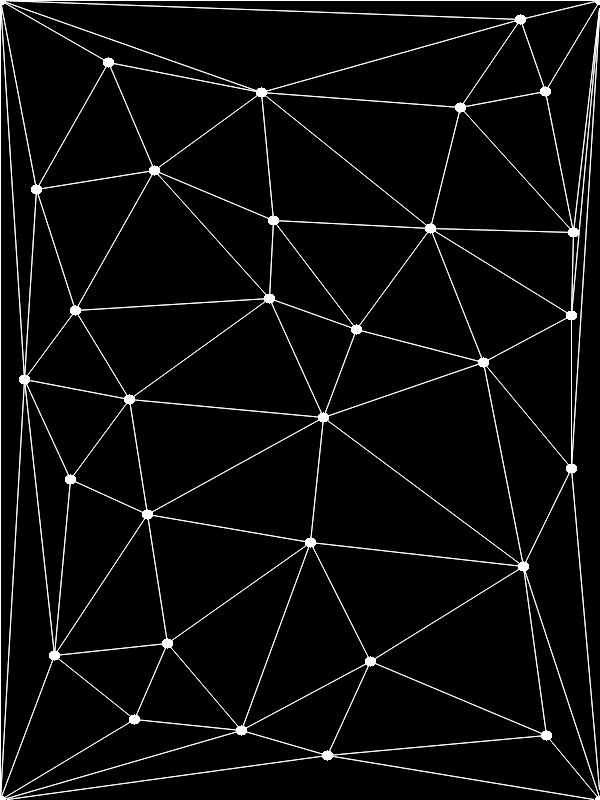
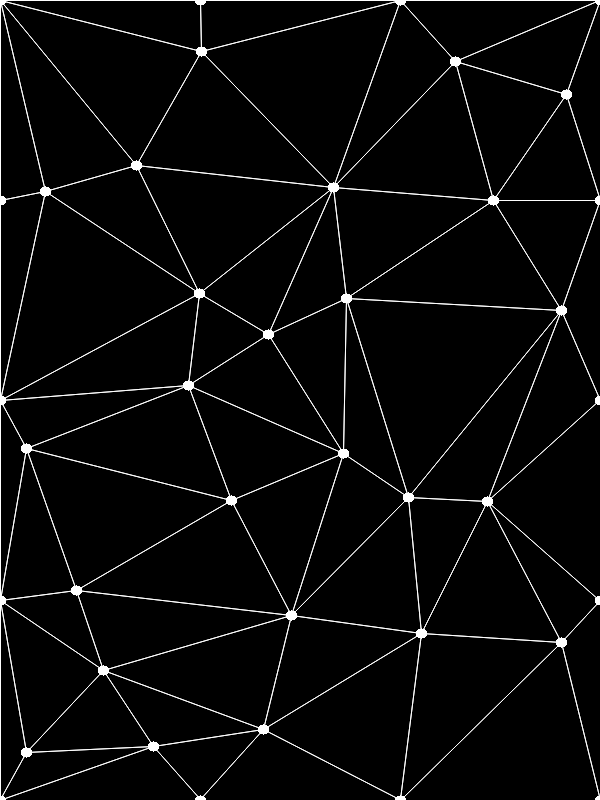
+ points on borders

diff --git a/triangle.py b/triangle.py
@@ -1,6 +1,8 @@
 # ---------------------------------------------------------- #
-# Delaunay triangulation
 #
+# PolygonPic
+#
+# Links:
 # https://docs.scipy.org/doc/scipy-0.14.0/reference/generated/scipy.spatial.Delaunay.html
 #
 # ---------------------------------------------------------- #
@@ -17,9 +19,12 @@ from scipy.spatial import Delaunay
 width = 600
 height = 800
 
+w_shift = width / 3   # !IMPORTANT
+h_shift = height / 4   # !IMPORTANT
+
 pygame.init()
 screen = pygame.display.set_mode((width, height), 0, 32)
-pygame.display.set_caption("_Polygon_Prototype_")
+pygame.display.set_caption("_polygonpic_prototype_")
 
 # ---------------------------------------------------------- #
 # Var
@@ -32,7 +37,7 @@ running = True
 print "Setup..."
 
 points_number = 70   # 70 !IMPORTANT
-dist_from_borders = 19   # !IMPORTANT
+dist_from_borders = 21   # !IMPORTANT
 
 X = np.random.randint(dist_from_borders, width - dist_from_borders, size=(points_number,))
 Y = np.random.randint(dist_from_borders, height - dist_from_borders, size=(points_number,))
@@ -40,7 +45,7 @@ Y = np.random.randint(dist_from_borders, height - dist_from_borders, size=(point
 point_cloud_list = zip(list(X), list(Y))
 point_cloud_list_new = point_cloud_list[:]
 
-distance_threshold = 70   # 70 !IMPORTANT
+distance_threshold = 77   # 70 !IMPORTANT
 
 # Combinations using for
 for p1 in point_cloud_list:
@@ -71,7 +76,7 @@ for c in combinations:
 point_cloud_list_new = list(set(point_cloud_list_new))
 """
 
-# Add corners
+# Add corners and borders | Manual | Need tuning
 # print point_cloud_list, point_cloud_list_new
 point_cloud_list.append((0, 0))
 point_cloud_list.append((0, height))
@@ -81,11 +86,35 @@ point_cloud_list_new.append((0, 0))
 point_cloud_list_new.append((0, height))
 point_cloud_list_new.append((width, 0))
 point_cloud_list_new.append((width, height))
+#
+point_cloud_list.append((0, h_shift))
+point_cloud_list.append((0, 2 * h_shift))
+point_cloud_list.append((0, 3 * h_shift))
+point_cloud_list_new.append((0, h_shift))
+point_cloud_list_new.append((0, 2 * h_shift))
+point_cloud_list_new.append((0, 3 * h_shift))
+#
+point_cloud_list.append((width, h_shift))
+point_cloud_list.append((width, 2 * h_shift))
+point_cloud_list.append((width, 3 * h_shift))
+point_cloud_list_new.append((width, h_shift))
+point_cloud_list_new.append((width, 2 * h_shift))
+point_cloud_list_new.append((width, 3 * h_shift))
+#
+point_cloud_list.append((w_shift, 0))
+point_cloud_list.append((w_shift * 2, 0))
+point_cloud_list_new.append((w_shift, 0))
+point_cloud_list_new.append((w_shift * 2, 0))
+#
+point_cloud_list.append((w_shift, height))
+point_cloud_list.append((w_shift * 2, height))
+point_cloud_list_new.append((w_shift, height))
+point_cloud_list_new.append((w_shift * 2, height))
 
 point_cloud = np.array(point_cloud_list)
 point_cloud_new = np.array(point_cloud_list_new)
 
-# Use not all pionts | !IMPORTANT
+# Use not all points | !IMPORTANT
 point_cloud = point_cloud_new
 point_cloud_list = point_cloud_list_new
 
@@ -155,4 +184,3 @@ while running:
 print "All stopped..."
 
 # -------------------------# 
-

diff --git a/README.md b/README.md
@@ -2,4 +2,35 @@
 
 Polygonal images generator
 
-Delaunay triangulation
+Generates random polygonal images using Delaunay triangulation.
+
+Dependencies:
+
+- Python;
+
+- pygame;
+
+- scipy;
+
+- numpy;
+
+Example of work (skeleton):
+
+https://github.com/spaceuniverse/PolygonPic/blob/master/media/screen.png
+
+
+-----------------------------------------------------------------------
+
+References for usage examples:
+
+http://freebietextures.tumblr.com/
+
+http://theultralinx.com/2014/07/35-polygon-style-logos/
+
+http://i.imgur.com/Nvx9CKr.jpg
+
+http://images.freeimages.com/images/previews/9e6/abstract-polygonal-low-poly-photos-texture-3-636190.jpg
+
+etc.
+
+-----------------------------------------------------------------------
